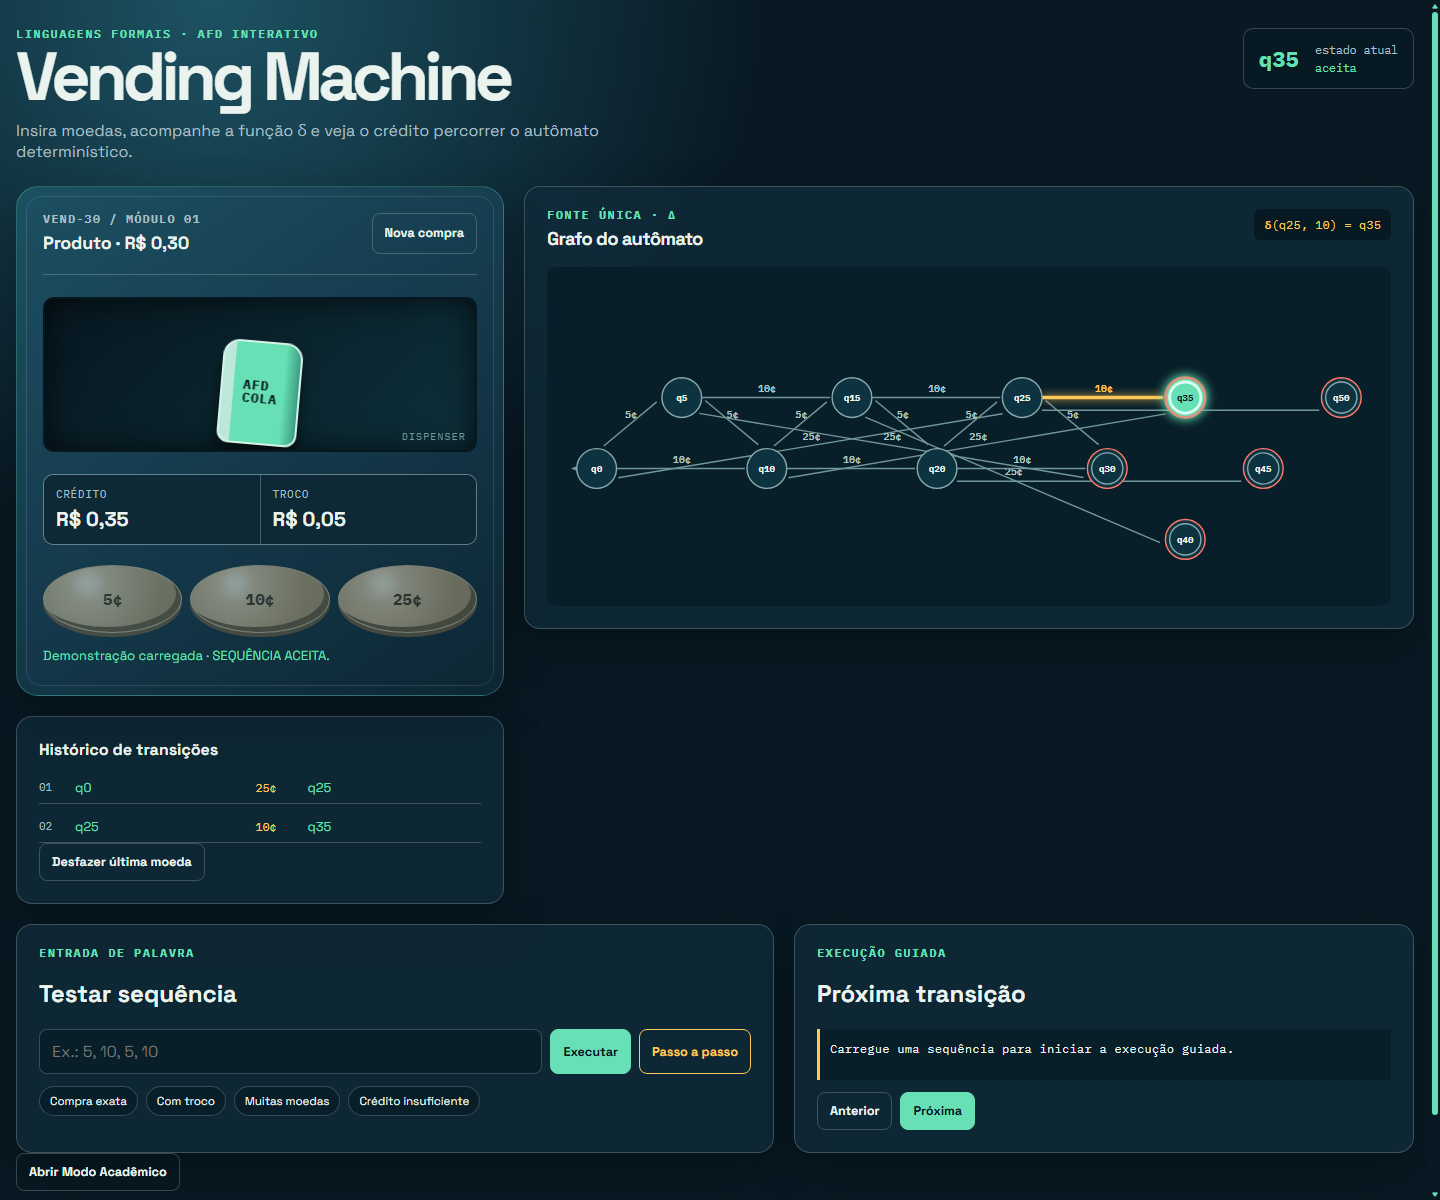
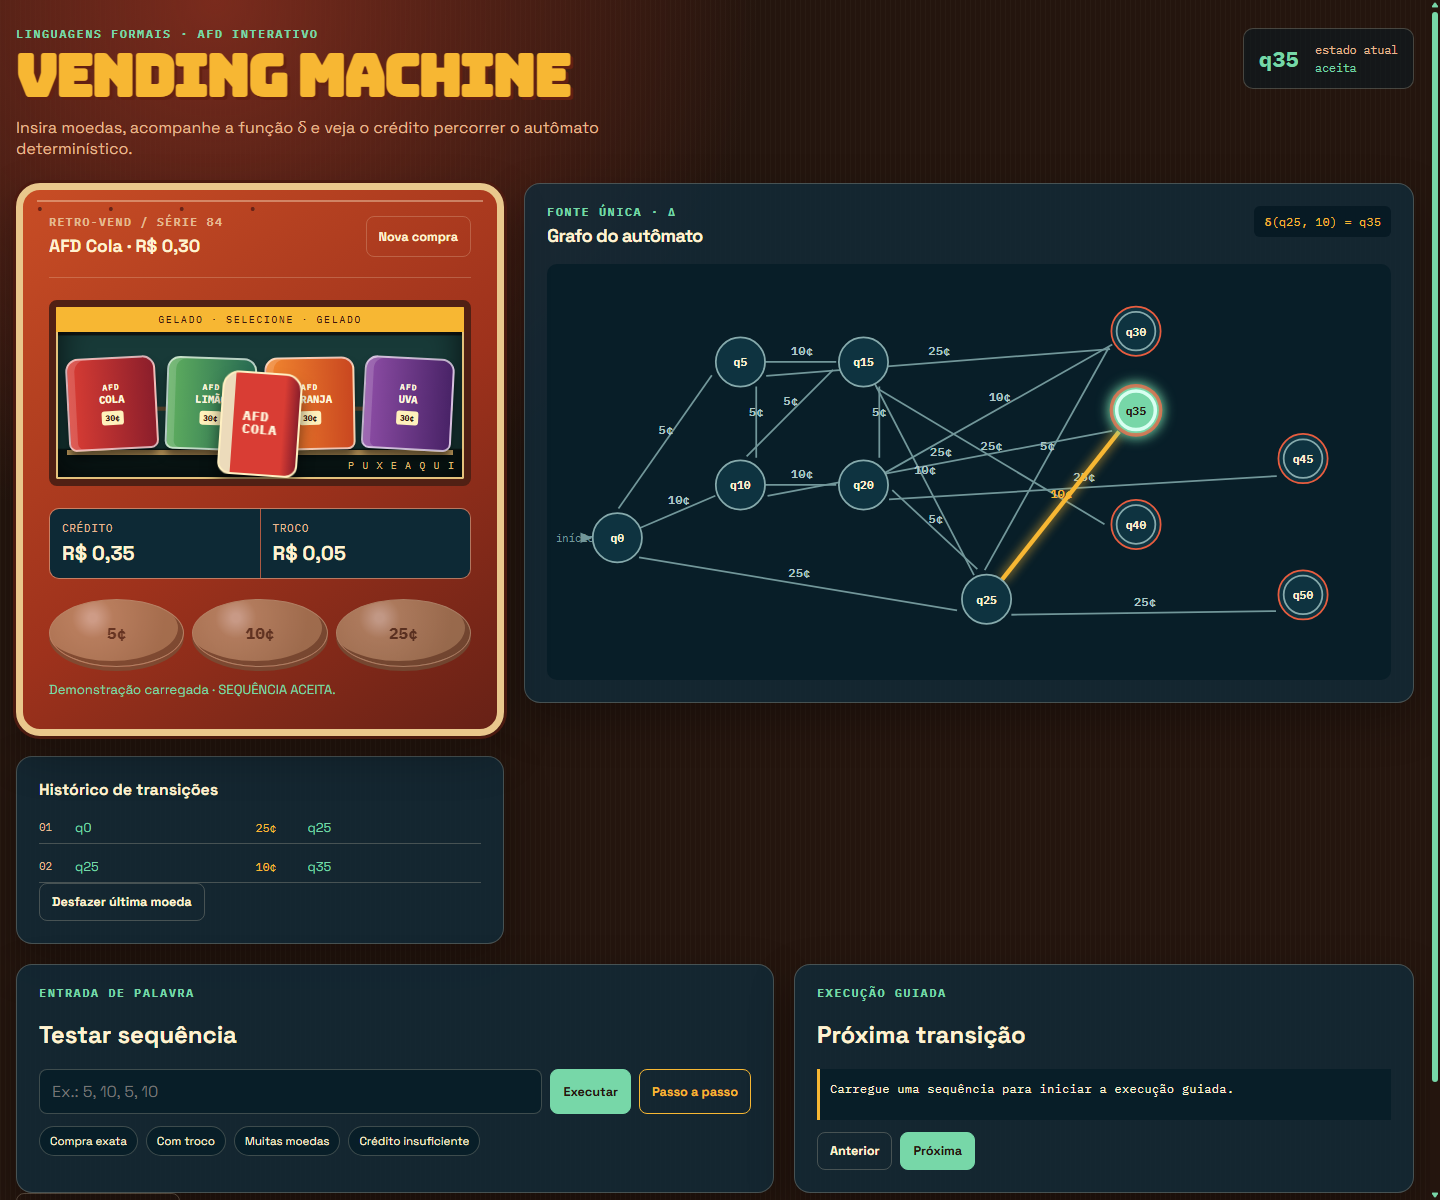
feat: add retro vending showcase and clarify AFD layout

diff --git a/css/layout.css b/css/layout.css
@@ -1,8 +1,8 @@
-body { min-height: 100vh; overflow-x: hidden; background: radial-gradient(circle at 15% 0%, #1d5263 0, transparent 34rem), var(--ink); }
+body { min-height: 100vh; overflow-x: hidden; background: radial-gradient(circle at 15% 0%, #7a2b1d 0, transparent 34rem), repeating-linear-gradient(90deg, rgb(255 242 209 / .025) 0 1px, transparent 1px 5px), var(--ink); }
 .app-shell { width: min(1480px, calc(100% - 32px)); margin: 0 auto; padding: 28px 0 52px; }
 .topbar { display: flex; justify-content: space-between; gap: 24px; align-items: start; margin-bottom: 24px; }
 .eyebrow, .section-kicker { margin: 0 0 6px; color: var(--mint); font: 700 .74rem/1 var(--mono); letter-spacing: .13em; text-transform: uppercase; }
-h1 { margin: 0; font-size: clamp(2rem, 5vw, 4.25rem); letter-spacing: -.07em; line-height: .9; }
+h1 { margin: 0; font-family: var(--retro); font-size: clamp(1.8rem, 4.4vw, 3.65rem); letter-spacing: -.045em; line-height: 1; color: var(--amber); text-shadow: 3px 3px 0 #632012; }
 .subtitle { margin: 12px 0 0; max-width: 610px; color: var(--muted); }
 .live-state { display: grid; grid-template-columns: auto auto; gap: 3px 16px; padding: 13px 15px; min-width: 156px; border: 1px solid var(--line); border-radius: 10px; background: rgb(8 25 35 / .55); font-family: var(--mono); }
 .live-state span { color: var(--muted); font-size: .72rem; }
@@ -10,15 +10,19 @@ h1 { margin: 0; font-size: clamp(2rem, 5vw, 4.25rem); letter-spacing: -.07em; li
 .workspace { display: grid; grid-template-columns: minmax(330px, .85fr) minmax(0, 1.55fr); gap: 20px; align-items: start; }
 .machine-column, .graph-column, .sequence-panel, .academic-panel { min-width: 0; }
 .machine-column { display: grid; gap: 20px; }
-.machine { position: relative; isolation: isolate; overflow: hidden; padding: 26px; border-radius: 22px; border: 1px solid color-mix(in srgb, var(--mint) 30%, transparent); background: linear-gradient(145deg, #1c5062, var(--panel) 55%, #0d2633); box-shadow: var(--shadow); }
-.machine::before { content: ""; position: absolute; inset: 9px; z-index: -1; border: 1px solid rgb(234 243 238 / .13); border-radius: 15px; }
+.machine { position: relative; isolation: isolate; overflow: hidden; padding: 26px; border: 7px solid #e9c78c; border-radius: 24px; background: linear-gradient(145deg, #c84d25, var(--panel) 55%, #672116); box-shadow: 0 0 0 3px #4b1a10, var(--shadow); }
+.machine::before { content: "●     ●     ●     ●"; position: absolute; inset: 10px auto auto 14px; z-index: -1; width: calc(100% - 28px); color: #6c2316; letter-spacing: 3.6em; font-size: .55rem; border-top: 2px solid rgb(255 242 209 / .38); }
 .machine-top { display: flex; justify-content: space-between; gap: 10px; padding-bottom: 20px; border-bottom: 1px solid var(--line); }
 .machine-label { margin: 0; font: 700 .72rem/1 var(--mono); letter-spacing: .12em; color: var(--muted); }
 .machine-price { margin: 7px 0 0; font-size: 1.1rem; font-weight: 700; }
-.product-window { position: relative; min-height: 155px; display: grid; place-items: center; margin: 22px 0; overflow: hidden; border: 2px solid #071720; border-radius: 11px; background: linear-gradient(135deg, #071720, #0d303a); box-shadow: inset 0 0 32px #000a; }
-.product-window::after { content: "DISPENSER"; position: absolute; right: 9px; bottom: 7px; color: #6d999b; font: .62rem var(--mono); letter-spacing: .12em; }
-.can { display: grid; place-items: center; width: 80px; height: 104px; border: 2px solid #d8f4e7; border-radius: 17px 17px 12px 12px; background: linear-gradient(90deg, #bce8dc 0 14%, #66e0b4 15% 80%, #3d9d83); color: var(--ink); font: 800 .8rem/1 var(--mono); letter-spacing: .08em; box-shadow: 0 12px 15px #0008; }
-.machine.is-vended .can { animation: dispense .75s cubic-bezier(.2,.8,.2,1) both; }
+.product-window { position: relative; min-height: 186px; margin: 22px 0; overflow: hidden; border: 7px solid #512014; border-radius: 8px; background: linear-gradient(180deg, #0e1514 0 16%, #183a38 17% 82%, #0a1716 83%); box-shadow: inset 0 0 0 2px #e4c27c, inset 0 0 34px #000c; }
+.product-window::after { content: "P U X E  A Q U I"; position: absolute; right: 9px; bottom: 7px; color: #dfb76e; font: .62rem var(--mono); letter-spacing: .12em; }
+.marquee { margin: 0; padding: 6px; color: #3b160d; background: var(--amber); text-align: center; font: .62rem var(--mono); letter-spacing: .16em; }
+.product-shelf { position: absolute; inset: 41px 11px 24px; display: grid; grid-template-columns: repeat(4, 1fr); align-items: end; gap: 9px; border-bottom: 5px solid #bb9659; background: linear-gradient(180deg, transparent 57%, #5e492f 58% 61%, transparent 62%); }
+.product { display: grid; place-items: center; align-content: center; height: 93px; border: 2px solid rgb(255 255 255 / .65); border-radius: 13px 13px 8px 8px; color: #fff8df; box-shadow: inset 7px 0 rgb(255 255 255 / .16), 0 8px 9px #0008; transform: rotate(var(--tilt, 0deg)); }
+.product span { font: 700 .5rem var(--mono); letter-spacing: .13em; }.product b { font: 800 .66rem var(--mono); }.product i { margin-top: 5px; padding: 2px 4px; border-radius: 3px; color: #2d160e; background: #fff1bc; font: 700 .5rem var(--mono); font-style: normal; }
+.product--cola { --tilt: -3deg; background: linear-gradient(90deg, #d93d34, #8b1e2b); }.product--lime { --tilt: 2deg; background: linear-gradient(90deg, #5fae5f, #276a52); }.product--orange { --tilt: -1deg; background: linear-gradient(90deg, #f2872f, #c94720); }.product--grape { --tilt: 3deg; background: linear-gradient(90deg, #8d4da5, #492367); }
+.product-release { position: absolute; left: 50%; bottom: -118px; z-index: 2; transform: translateX(-50%); }.can { display: grid; place-items: center; width: 80px; height: 104px; border: 2px solid #fff0c2; border-radius: 17px 17px 12px 12px; background: linear-gradient(90deg, #ecdbbb 0 14%, #d93d34 15% 80%, #8b1e2b); color: #fff8df; font: 800 .8rem/1 var(--mono); letter-spacing: .08em; box-shadow: 0 12px 15px #0008; }.machine.is-vended .product-release { bottom: 3px; animation: dispense-product .75s cubic-bezier(.2,.8,.2,1) both; }
 .credit-grid { display: grid; grid-template-columns: 1fr 1fr; gap: 1px; overflow: hidden; border: 1px solid var(--line); border-radius: 10px; background: var(--line); }
 .credit-grid > div { padding: 12px; background: #0d2935; }
 .credit-grid span { display: block; color: var(--muted); font: .67rem var(--mono); text-transform: uppercase; letter-spacing: .08em; }
@@ -53,6 +57,7 @@ h1 { margin: 0; font-size: clamp(2rem, 5vw, 4.25rem); letter-spacing: -.07em; li
 .transition-table .current-row { background: color-mix(in srgb, var(--mint) 14%, transparent); }
 .footer-note { margin: 20px 0 0; color: var(--muted); font-size: .78rem; text-align: center; }
 @keyframes dispense { 0% { transform: translateY(-90px) rotate(-10deg); opacity: 0; } 100% { transform: translateY(19px) rotate(5deg); opacity: 1; } }
+@keyframes dispense-product { 0% { transform: translate(-50%, -90px) rotate(-10deg); opacity: 0; } 100% { transform: translate(-50%, 0) rotate(4deg); opacity: 1; } }
 @media (max-width: 980px) { .workspace { grid-template-columns: 1fr; } .graph-panel { order: -1; } .sequence-grid { grid-template-columns: 1fr; } }
 @media (max-width: 620px) { .app-shell { width: min(100% - 20px, 1480px); padding-top: 18px; } .topbar, .machine-top { flex-direction: column; } .live-state { width: 100%; } .machine-top .button { align-self: flex-start; } .machine, .graph-panel, .history-panel, .sequence-panel, .academic-panel { padding: 16px; } .coin-bank { grid-template-columns: repeat(3, minmax(0, 1fr)); } .coin { min-width: 0; } .sequence-form { flex-wrap: wrap; } .sequence-form input { flex-basis: 100%; } .academic-grid { grid-template-columns: 1fr; } }
 @media (prefers-reduced-motion: reduce) { *, *::before, *::after { animation-duration: .01ms !important; animation-iteration-count: 1 !important; scroll-behavior: auto !important; } }

diff --git a/index.html b/index.html
@@ -7,7 +7,7 @@
     <title>Vending Machine — AFD</title>
     <link rel="preconnect" href="https://fonts.googleapis.com" />
     <link rel="preconnect" href="https://fonts.gstatic.com" crossorigin />
-    <link href="https://fonts.googleapis.com/css2?family=IBM+Plex+Mono:wght@400;500;600;700&family=Space+Grotesk:wght@400;500;600;700&display=swap" rel="stylesheet" />
+    <link href="https://fonts.googleapis.com/css2?family=Bungee&family=IBM+Plex+Mono:wght@400;500;600;700&family=Space+Grotesk:wght@400;500;600;700&display=swap" rel="stylesheet" />
     <link rel="stylesheet" href="css/variables.css" />
     <link rel="stylesheet" href="css/layout.css" />
     <link rel="stylesheet" href="css/components.css" />
@@ -26,8 +26,8 @@
       <section class="workspace" aria-label="Simulador da vending machine">
         <div class="machine-column">
           <section class="machine" id="machine" aria-labelledby="machine-title">
-            <div class="machine-top"><div><p class="machine-label">VEND-30 / MÓDULO 01</p><p class="machine-price" id="machine-title">Produto · R$ 0,30</p></div><button class="button" id="reset-button" type="button">Nova compra</button></div>
-            <div class="product-window" aria-label="Compartimento do produto"><div class="can" aria-hidden="true">AFD<br>COLA</div></div>
+            <div class="machine-top"><div><p class="machine-label">RETRO-VEND / SÉRIE 84</p><p class="machine-price" id="machine-title">AFD Cola · R$ 0,30</p></div><button class="button" id="reset-button" type="button">Nova compra</button></div>
+            <div class="product-window" aria-label="Vitrine com produtos disponíveis"><p class="marquee">GELADO · SELECIONE · GELADO</p><div class="product-shelf"><div class="product product--cola"><span>AFD</span><b>COLA</b><i>30¢</i></div><div class="product product--lime"><span>AFD</span><b>LIMÃO</b><i>30¢</i></div><div class="product product--orange"><span>AFD</span><b>LARANJA</b><i>30¢</i></div><div class="product product--grape"><span>AFD</span><b>UVA</b><i>30¢</i></div></div><div class="product-release" aria-hidden="true"><div class="can">AFD<br>COLA</div></div></div>
             <div class="credit-grid"><div><span>crédito</span><strong id="credit">R$ 0,00</strong></div><div><span id="balance-label">faltam</span><strong id="balance">R$ 0,30</strong></div></div>
             <div class="coin-bank" aria-label="Inserir moeda">
               <button class="coin" type="button" data-coin="5" aria-label="Inserir moeda de 5 centavos">5¢</button>
@@ -51,9 +51,8 @@
 
       <section class="academic-panel" id="academic-panel" hidden aria-labelledby="academic-title"><div class="panel-heading"><div><p class="section-kicker">Leitura formal</p><h2 id="academic-title">Modo Acadêmico</h2></div></div><p class="formal-line">M = (Q, Σ, δ, q0, F)</p><div class="academic-grid"><dl class="formal-details" id="formal-details"></dl><div class="table-wrap"><table class="transition-table"><thead><tr><th>Estado</th><th>+5¢</th><th>+10¢</th><th>+25¢</th></tr></thead><tbody id="transition-table-body"></tbody></table></div></div></section>
       <button class="button" id="academic-toggle" type="button" aria-expanded="false" aria-controls="academic-panel">Abrir Modo Acadêmico</button>
-      <p class="footer-note">AFD para produto de R$ 0,30 · estados finais: q30, q35, q40, q45, q50.</p>
+      <p class="footer-note">AFD para produto de R$ 0,30 · estados finais: q30, q35, q40, q45, q50 · autores: Lucas Costa e Silva e Benvindo.</p>
     </main>
     <script type="module" src="src/app.js"></script>
   </body>
 </html>
-

diff --git a/src/graph.js b/src/graph.js
@@ -1,8 +1,8 @@
 import { automaton } from './automaton-definition.js';
 
 const points = {
-  q0:[70,270], q5:[190,170], q10:[310,270], q15:[430,170], q20:[550,270], q25:[670,170],
-  q30:[790,270], q35:[900,170], q40:[900,370], q45:[1010,270], q50:[1120,170]
+  q0:[80,300], q5:[220,100], q10:[220,240], q15:[360,100], q20:[360,240], q25:[500,370],
+  q30:[670,65], q35:[670,155], q40:[670,285], q45:[860,210], q50:[860,365]
 };
 
 function pathFor(from, to, index) {
@@ -17,11 +17,10 @@ function pathFor(from, to, index) {
 export function graphMarkup(snapshot) {
   const last = snapshot.lastTransition;
   const edges = Object.entries(automaton.transitions).flatMap(([from, row]) => Object.entries(row).map(([coin, to]) => ({ from, to, coin: Number(coin) })));
-  return `<svg class="automaton-graph" viewBox="0 0 1190 450" role="img" aria-label="Grafo do autômato, estado atual ${snapshot.state}">
+  return `<svg class="automaton-graph" viewBox="0 0 960 450" role="img" aria-label="Grafo do autômato, estado atual ${snapshot.state}">
     <defs><marker id="arrow" markerWidth="8" markerHeight="8" refX="6" refY="3" orient="auto"><path d="M0,0 L0,6 L7,3 z"/></marker></defs>
-    <text class="graph-start" x="40" y="275">início</text><path class="start-arrow" d="M 52 270 L 36 270" marker-end="url(#arrow)"/>
+    <text class="graph-start" x="10" y="305">início</text><path class="start-arrow" d="M 42 300 L 50 300" marker-end="url(#arrow)"/>
     ${edges.map(({from,to,coin}) => { const p=pathFor(from,to,coin); const active=last?.from===from&&last?.to===to&&last?.input===coin; return `<g class="edge ${active?'is-active':''}"><path d="${p.d}" marker-end="url(#arrow)"/><text x="${p.lx}" y="${p.ly}">${coin}¢</text></g>`; }).join('')}
     ${automaton.states.map((state) => { const [x,y]=points[state]; const final=automaton.finalStates.includes(state); return `<g class="state ${state===snapshot.state?'is-current':''} ${final?'is-final':''}" data-state="${state}"><circle cx="${x}" cy="${y}" r="28"/>${final?`<circle cx="${x}" cy="${y}" r="22"/>`:''}<text x="${x}" y="${y+5}">${state}</text></g>`; }).join('')}
   </svg>`;
 }
-

diff --git a/tests/automaton.test.js b/tests/automaton.test.js
@@ -8,6 +8,13 @@ test('a definição tem os estados e finais exigidos', () => {
   assert.deepEqual(automaton.finalStates, ['q30', 'q35', 'q40', 'q45', 'q50']);
   assert.deepEqual(automaton.alphabet, [5, 10, 25]);
 });
+test('a tabela de transições é exatamente a especificação da atividade', () => {
+  assert.deepEqual(automaton.transitions, {
+    q0: { 5: 'q5', 10: 'q10', 25: 'q25' }, q5: { 5: 'q10', 10: 'q15', 25: 'q30' },
+    q10: { 5: 'q15', 10: 'q20', 25: 'q35' }, q15: { 5: 'q20', 10: 'q25', 25: 'q40' },
+    q20: { 5: 'q25', 10: 'q30', 25: 'q45' }, q25: { 5: 'q30', 10: 'q35', 25: 'q50' }
+  });
+});
 test('todas as transições oficiais são determinísticas e corretas', () => {
   assert.equal(transition('q0', 5), 'q5'); assert.equal(transition('q0', 10), 'q10'); assert.equal(transition('q0', 25), 'q25');
   assert.equal(transition('q5', 25), 'q30'); assert.equal(transition('q10', 25), 'q35');
@@ -40,4 +47,3 @@ test('reset restaura a configuração inicial', () => {
   const machine = createMachine(); machine.insert(25); machine.insert(10); const snapshot = machine.reset();
   assert.equal(snapshot.state, 'q0'); assert.equal(snapshot.credit, 0); assert.equal(snapshot.history.length, 0); assert.equal(snapshot.accepted, false);
 });
-

diff --git a/css/variables.css b/css/variables.css
@@ -1,16 +1,17 @@
 :root {
-  --ink: #081923;
-  --ink-soft: #102b3a;
-  --panel: #14384a;
-  --paper: #eaf3ee;
-  --muted: #a5bec2;
-  --mint: #66e0b4;
-  --amber: #ffc857;
-  --coral: #ff7a6b;
+  --ink: #24150e;
+  --ink-soft: #532316;
+  --panel: #9e321c;
+  --paper: #fff2d1;
+  --muted: #e5b991;
+  --mint: #77d7a8;
+  --amber: #f7b733;
+  --coral: #e85d3f;
   --line: color-mix(in srgb, var(--paper) 22%, transparent);
   --shadow: 0 18px 45px rgb(0 0 0 / .28);
   --radius: 16px;
   --display: "Space Grotesk", system-ui, sans-serif;
+  --retro: "Bungee", Impact, sans-serif;
   --mono: "IBM Plex Mono", "Cascadia Mono", monospace;
 }
 
@@ -24,4 +25,3 @@ body { margin: 0; min-width: 320px; }
 button, input { font: inherit; }
 button { cursor: pointer; }
 button:focus-visible, input:focus-visible { outline: 3px solid var(--amber); outline-offset: 3px; }
-

diff --git a/DESIGN.md b/DESIGN.md
@@ -2,26 +2,25 @@
 
 ## Intenção
 
-Uma bancada didática de laboratório: a máquina é tátil e física; o autômato é um instrumento técnico que responde em tempo real. O público são estudantes de Linguagens Formais e Autômatos, e a única tarefa da tela é tornar uma transição formal legível enquanto ela acontece.
+Uma máquina de refrigerantes de fliperama dos anos 1980: chapa pintada, cromados, luz quente e uma vitrine que deixa os produtos visíveis. O público são estudantes de Linguagens Formais e Autômatos, e a única tarefa da tela é tornar uma transição formal legível enquanto ela acontece.
 
 ## Tokens normativos
 
 | Token | Valor | Uso |
 |---|---:|---|
-| `--ink` | `#081923` | fundo profundo, texto escuro |
-| `--panel` | `#102b3a` | superfícies da máquina |
-| `--paper` | `#eaf3ee` | texto e áreas de leitura |
-| `--mint` | `#66e0b4` | estado atual, ação segura |
-| `--amber` | `#ffc857` | moeda, transição ativa |
-| `--coral` | `#ff7a6b` | atenção e estados finais |
+| `--ink` | `#24150e` | fundo espresso |
+| `--panel` | `#9e321c` | chapa esmaltada da máquina |
+| `--paper` | `#fff2d1` | letreiros e áreas de leitura |
+| `--mint` | `#77d7a8` | estado atual, ação segura |
+| `--amber` | `#f7b733` | moedas e transição ativa |
+| `--coral` | `#e85d3f` | atenção e estados finais |
 
-Tipografia: `Space Grotesk` para interface; `IBM Plex Mono` para estados e função δ. Os valores são implementados apenas em `css/variables.css`, consumidos por `layout.css` e `components.css`.
+Tipografia: `Bungee` para os letreiros retrô, `Space Grotesk` para interface e `IBM Plex Mono` para estados e função δ. Os valores são implementados apenas em `css/variables.css`, consumidos por `layout.css` e `components.css`.
 
 ## Assinatura
 
-O grafo ocupa a lateral inteira como um circuito de estados: ao inserir uma moeda, a aresta e o nó de destino se iluminam no mesmo vocabulário de cor da moeda física.
+A vitrine de quatro produtos é a assinatura: fica acesa dentro da máquina e o produto AFD Cola é liberado ao aceitar. O grafo ocupa a lateral inteira como instrumento técnico independente da vitrine.
 
 ## Acessibilidade
 
 Contraste AA, controles nativos, foco bem visível, regiões de status ao vivo e remoção de animações não essenciais em `prefers-reduced-motion`.
-

diff --git a/docs/modelo-formal.md b/docs/modelo-formal.md
@@ -24,7 +24,7 @@ A máquina aceita moedas de 5¢, 10¢ e 25¢ e libera um produto que custa 30¢.
 | q20 | q25 | q30 | q45 |
 | q25 | q30 | q35 | q50 |
 
-Não há transições a partir dos estados finais porque a compra se encerra quando o produto é liberado. O troco é `valor(q) − 30` para `q ∈ F`.
+Não há transições a partir dos estados finais porque a compra se encerra quando o produto é liberado e a interface bloqueia novas moedas. Esta é uma decisão operacional deliberada do simulador: não foram adicionados loops artificiais em `F`. Se a disciplina exigir uma função total `δ: Q × Σ → Q`, a variante acadêmica pode acrescentar loops `5,10,25` em cada estado final; ela não é usada aqui porque mudaria o significado de encerramento da venda.
 
 ## Exemplos
 
@@ -35,4 +35,3 @@ Não há transições a partir dos estados finais porque a compra se encerra qua
 ## Fonte de verdade e consistência
 
 [`src/automaton-definition.js`](../src/automaton-definition.js) é a única definição do modelo. O motor, o grafo, a tabela do modo acadêmico, os testes e [`scripts/generate-jflap.mjs`](../scripts/generate-jflap.mjs) a importam diretamente. Portanto, o arquivo [`vending-machine.jff`](jflap/vending-machine.jff) não possui tabela de transições escrita manualmente.
-

diff --git a/README.md b/README.md
@@ -81,6 +81,6 @@ docs/                         formalização, JFLAP e capturas
 
 O workflow em [`.github/workflows/ci.yml`](.github/workflows/ci.yml) executa testes e valida o JFLAP em pushes e pull requests. [`.github/workflows/pages.yml`](.github/workflows/pages.yml) publica a raiz estática no GitHub Pages após push em `master`.
 
-## Autor
+## Autores
 
-Marco — projeto de Linguagens Formais e Autômatos.
+Lucas Costa e Silva e Benvindo — projeto de Linguagens Formais e Autômatos.

diff --git a/docs/arquitetura.md b/docs/arquitetura.md
@@ -14,3 +14,6 @@ automaton-definition.js
 
 O gerador JFLAP lê apenas `automaton-definition.js`, atribui IDs e coordenadas de apresentação e escreve XML no formato de autômato finito do JFLAP. `validate-jflap.mjs` volta a ler o XML e confere estados, inicial, finais e todas as transições contra a fonte central.
 
+## Autores
+
+Lucas Costa e Silva e Benvindo.

diff --git a/AUTHORS.md b/AUTHORS.md
@@ -1,0 +1,5 @@
+# Autores
+
+- Lucas Costa e Silva
+- Benvindo
+
